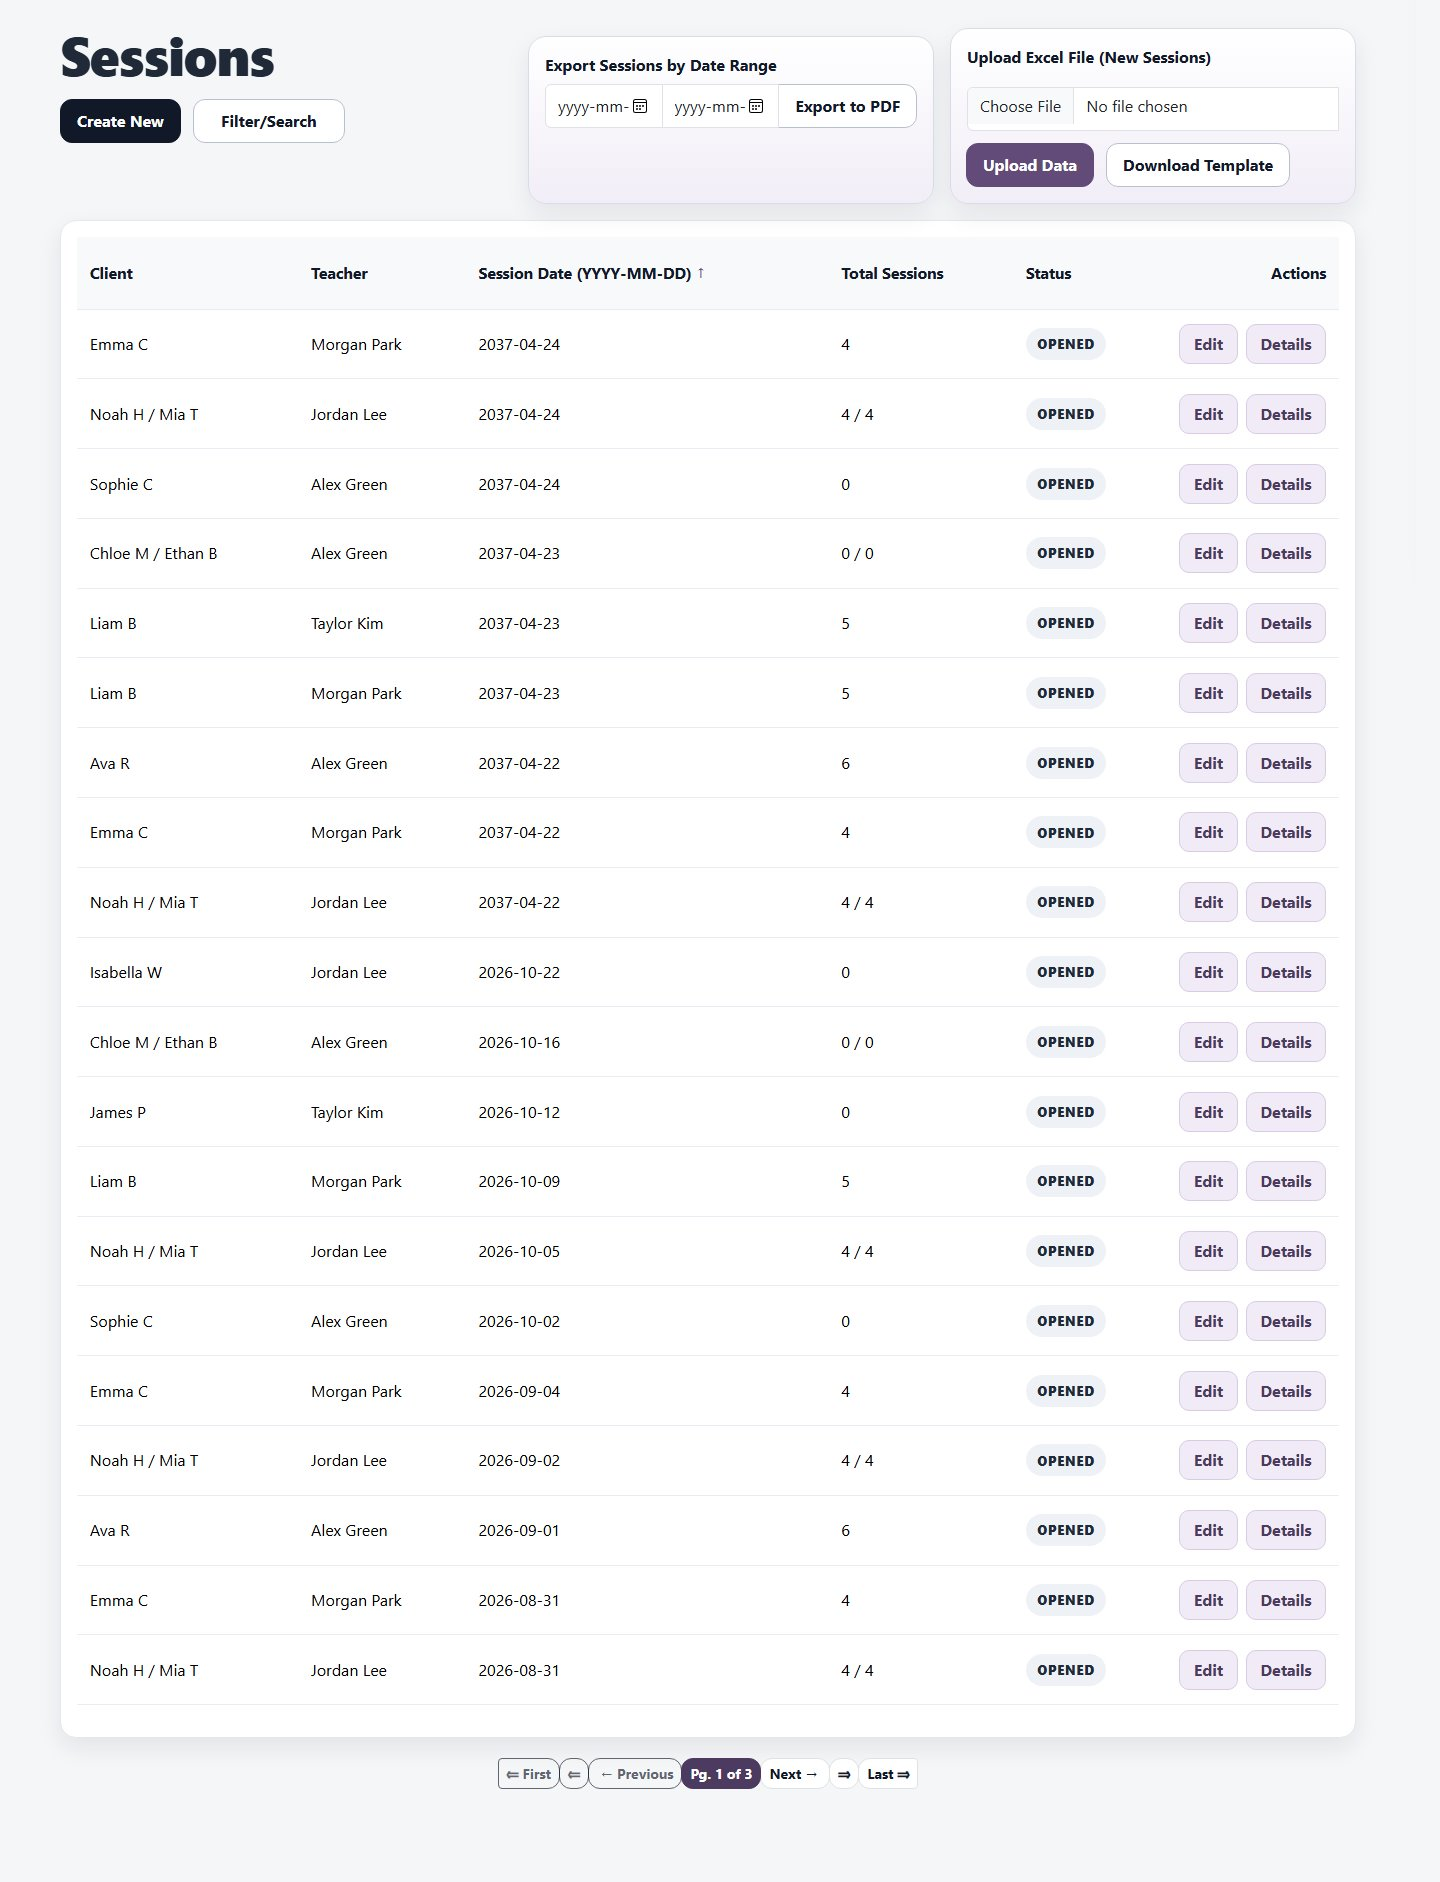
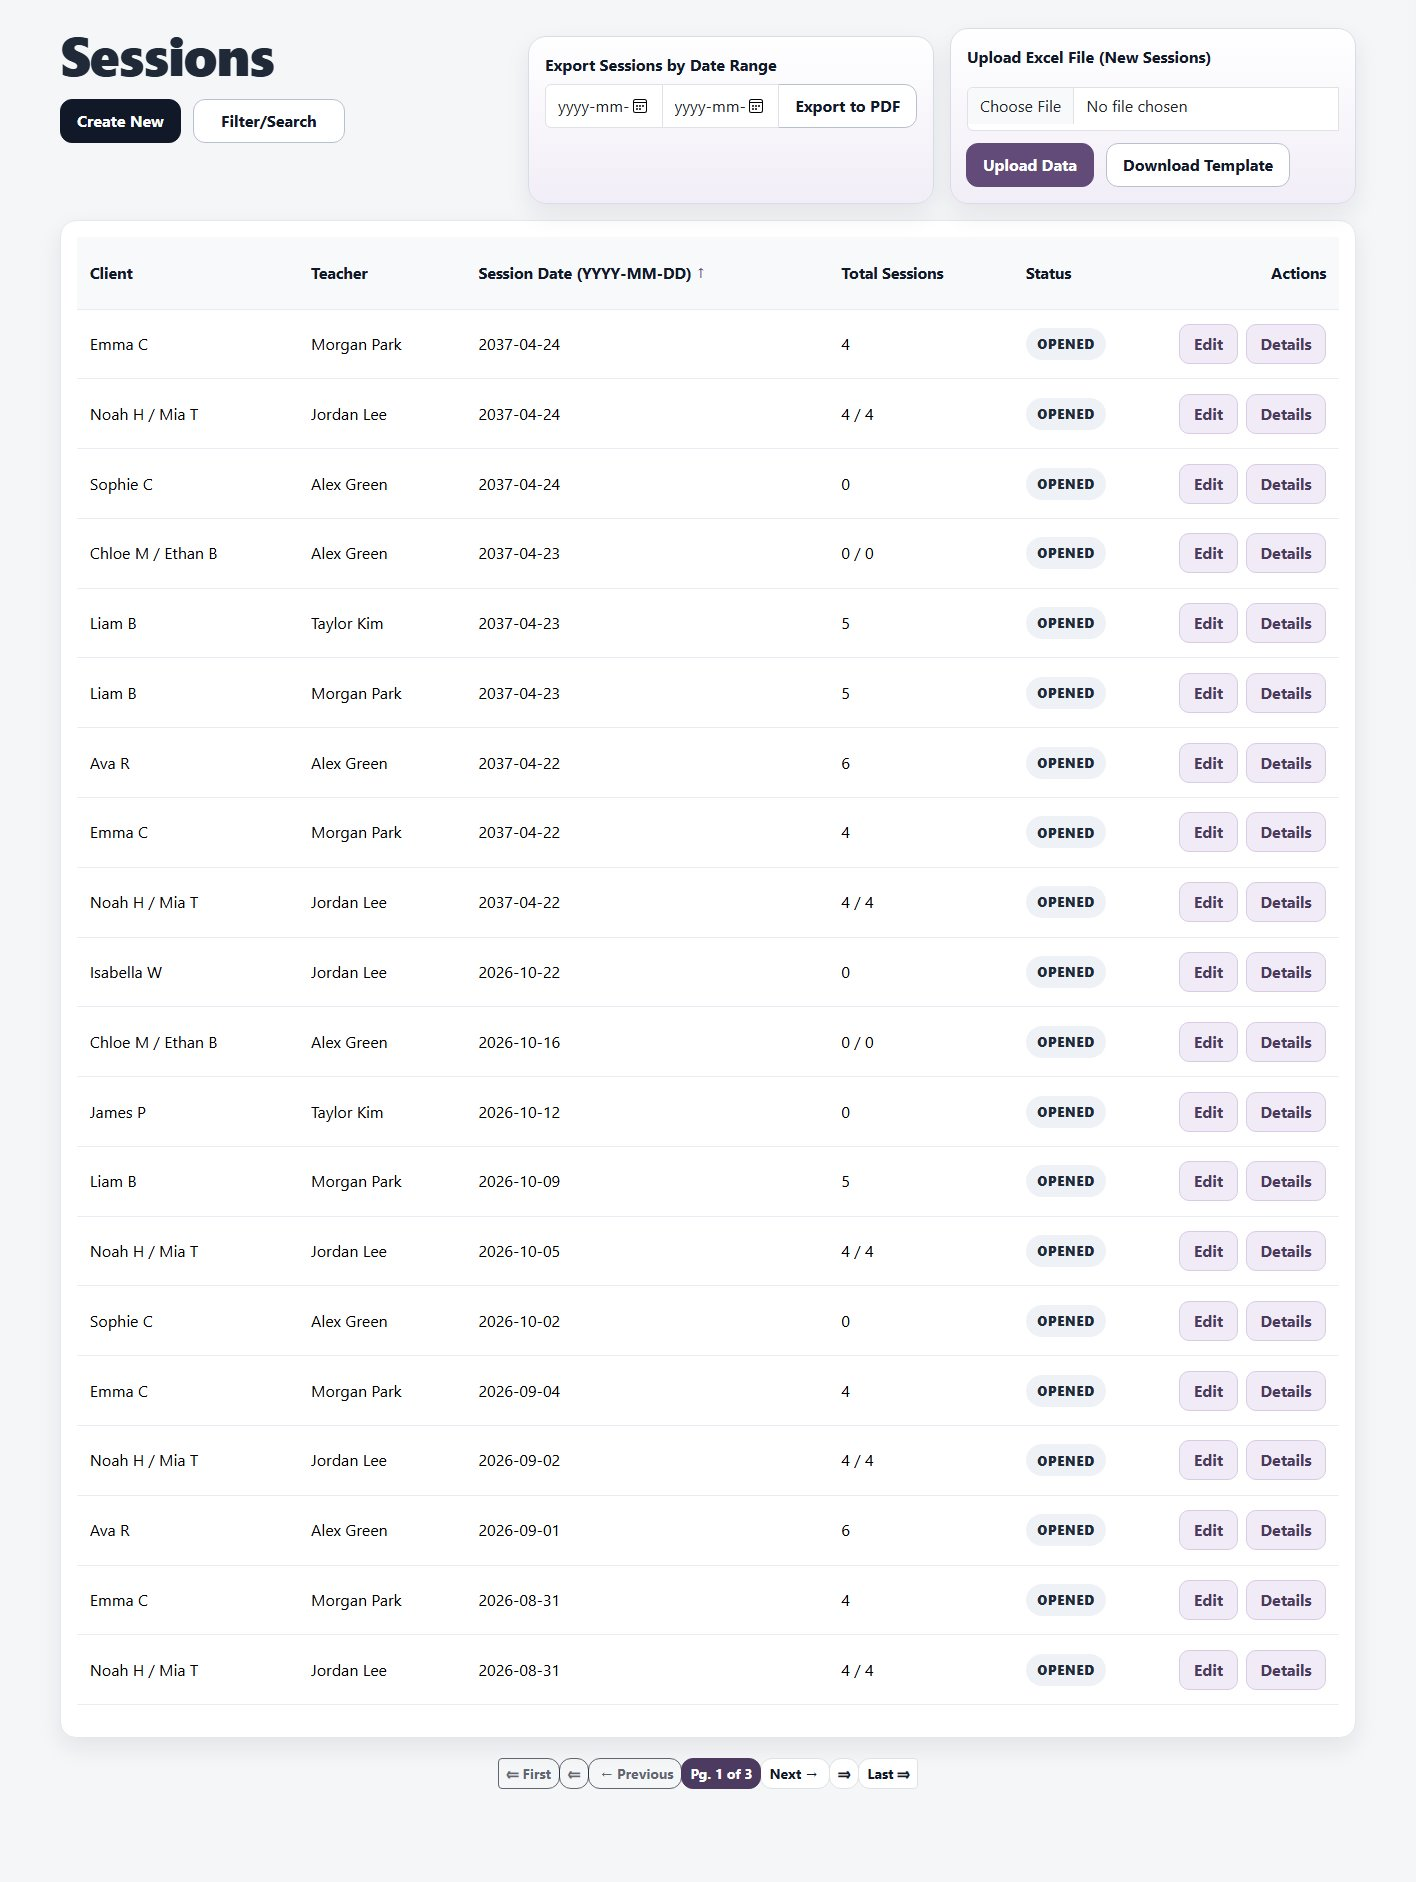
Trim the scrollbar gutter, and start a preview below its own header
Two things wrong with the previews at rest.

The Movement Unlimited capture kept a 24px strip on the right where the browser
had reserved the scrollbar, so the purple navigation stopped short of the edge
and the whole frame read as cropped wrong. The captures are re-sliced at 1416
wide, which is where the page content actually ends: the bar now runs to the
edge. Nothing is lost, the rightmost content on all three pages sits at 1360.
Click targets are re-derived against the narrower strip, since only the
denominator moved.

The pinned header and the page underneath it were both absolutely positioned at
top zero, so the page began behind the header and the first slice of it was
never visible. A page shorter than its frame then left the dark device
background showing underneath, which is the black box: the dashboard covered
161px of a 188px screen. Both now sit in normal flow, so the page starts below
the header exactly as it does on the real page, and transforming the page still
leaves the header where it is. That closes the gap from 27px to 2.

A frame can now declare the background of the page it shows, so where a short
page does leave a sliver it ends in that page's own colour instead of black.

diff --git a/portfolio.html b/portfolio.html
@@ -175,20 +175,20 @@
       <article class="project project-alt reveal">
         <div class="project-media">
           <button type="button" class="zoom" aria-label="View larger: Movement Unlimited">
-            <span class="device device-browser" data-reel>
+            <span class="device device-browser" data-reel style="--screen-bg:#F5F6F8">
               <span class="device-bar" aria-hidden="true"><i></i><i></i><i></i><b>Movement Unlimited</b></span>
               <span class="device-screen">
-                <span class="reel-slide is-live" data-click="34.4,50">
-                  <img class="reel-head" src="assets/work/head-mu-dashboard.jpg" alt="" loading="lazy" width="1440" height="101">
-                  <img class="reel-page" src="assets/work/reel-mu-dashboard.jpg" alt="Movement Unlimited dashboard showing upcoming sessions." loading="lazy" width="1440" height="707">
+                <span class="reel-slide is-live" data-click="35.0,50">
+                  <img class="reel-head" src="assets/work/head-mu-dashboard.jpg" alt="" loading="lazy" width="1416" height="101">
+                  <img class="reel-page" src="assets/work/reel-mu-dashboard.jpg" alt="Movement Unlimited dashboard showing upcoming sessions." loading="lazy" width="1416" height="707">
                 </span>
-                <span class="reel-slide" data-click="43.3,50">
-                  <img class="reel-head" src="assets/work/head-mu-sessions.jpg" alt="" loading="lazy" width="1440" height="101">
-                  <img class="reel-page" src="assets/work/reel-mu-sessions.jpg" alt="Sessions list with export and bulk upload." loading="lazy" width="1440" height="1882">
+                <span class="reel-slide" data-click="44.0,50">
+                  <img class="reel-head" src="assets/work/head-mu-sessions.jpg" alt="" loading="lazy" width="1416" height="101">
+                  <img class="reel-page" src="assets/work/reel-mu-sessions.jpg" alt="Sessions list with export and bulk upload." loading="lazy" width="1416" height="1882">
                 </span>
-                <span class="reel-slide" data-click="16.6,50">
-                  <img class="reel-head" src="assets/work/head-mu-reports.jpg" alt="" loading="lazy" width="1440" height="101">
-                  <img class="reel-page" src="assets/work/reel-mu-reports.jpg" alt="Reports screen with session statistics over a date range." loading="lazy" width="1440" height="1171">
+                <span class="reel-slide" data-click="16.9,50">
+                  <img class="reel-head" src="assets/work/head-mu-reports.jpg" alt="" loading="lazy" width="1416" height="101">
+                  <img class="reel-page" src="assets/work/reel-mu-reports.jpg" alt="Reports screen with session statistics over a date range." loading="lazy" width="1416" height="1171">
                 </span>
               </span>
               <span class="reel-cursor" aria-hidden="true"></span>

diff --git a/index.html b/index.html
@@ -138,20 +138,20 @@
         </a>
         <a class="teaser" href="portfolio.html#web-app">
           <span class="teaser-shot">
-            <span class="device device-browser" data-reel>
+            <span class="device device-browser" data-reel style="--screen-bg:#F5F6F8">
               <span class="device-bar" aria-hidden="true"><i></i><i></i><i></i><b>Movement Unlimited</b></span>
               <span class="device-screen">
-                <span class="reel-slide is-live" data-click="34.4,50">
-                  <img class="reel-head" src="assets/work/head-mu-dashboard.jpg" alt="" loading="lazy" width="1440" height="101">
-                  <img class="reel-page" src="assets/work/reel-mu-dashboard.jpg" alt="Movement Unlimited dashboard." loading="lazy" width="1440" height="707">
+                <span class="reel-slide is-live" data-click="35.0,50">
+                  <img class="reel-head" src="assets/work/head-mu-dashboard.jpg" alt="" loading="lazy" width="1416" height="101">
+                  <img class="reel-page" src="assets/work/reel-mu-dashboard.jpg" alt="Movement Unlimited dashboard." loading="lazy" width="1416" height="707">
                 </span>
-                <span class="reel-slide" data-click="43.3,50">
-                  <img class="reel-head" src="assets/work/head-mu-sessions.jpg" alt="" loading="lazy" width="1440" height="101">
-                  <img class="reel-page" src="assets/work/reel-mu-sessions.jpg" alt="" loading="lazy" width="1440" height="1882">
+                <span class="reel-slide" data-click="44.0,50">
+                  <img class="reel-head" src="assets/work/head-mu-sessions.jpg" alt="" loading="lazy" width="1416" height="101">
+                  <img class="reel-page" src="assets/work/reel-mu-sessions.jpg" alt="" loading="lazy" width="1416" height="1882">
                 </span>
-                <span class="reel-slide" data-click="16.6,50">
-                  <img class="reel-head" src="assets/work/head-mu-reports.jpg" alt="" loading="lazy" width="1440" height="101">
-                  <img class="reel-page" src="assets/work/reel-mu-reports.jpg" alt="" loading="lazy" width="1440" height="1171">
+                <span class="reel-slide" data-click="16.9,50">
+                  <img class="reel-head" src="assets/work/head-mu-reports.jpg" alt="" loading="lazy" width="1416" height="101">
+                  <img class="reel-page" src="assets/work/reel-mu-reports.jpg" alt="" loading="lazy" width="1416" height="1171">
                 </span>
               </span>
               <span class="reel-cursor" aria-hidden="true"></span>

diff --git a/styles.css b/styles.css
@@ -833,7 +833,10 @@ html { scrollbar-color: #2C3D34 var(--ground); scrollbar-width: thin; }
 
 .device-screen {
   position: absolute; inset: var(--bar, 0) 0 0; overflow: hidden;
-  background: var(--ground);
+  /* Falls back to the site ground. A frame showing a light application sets
+     its own, so a page shorter than the frame ends in the colour that page
+     actually has, rather than a black band. */
+  background: var(--screen-bg, var(--ground));
 }
 /* Slides stack in the same box and cross fade. Inside one, the header is
    pinned the way a real sticky header is and the page scrolls under it. */
@@ -842,14 +845,20 @@ html { scrollbar-color: #2C3D34 var(--ground); scrollbar-width: thin; }
   opacity: 0; transition: opacity 0.5s var(--ease);
 }
 .reel-slide.is-live { opacity: 1; }
+/* Both sit in normal flow, so the page starts below the header exactly as it
+   does on the real page. Absolutely positioning them both put the top of the
+   page behind the header, which only looked right once it had scrolled.
+   Transforming the page does not move the header, so the header stays put and
+   the page slides under it. */
 .reel-head {
-  position: absolute; inset: 0 0 auto; z-index: 2;
+  position: relative; z-index: 2;
   width: 100%; height: auto; display: block;
 }
 /* Height is auto so a tall capture keeps its own aspect and overflows
    downward, which is exactly the overflow the script scrolls through. */
 .reel-page {
-  position: absolute; inset: 0 0 auto; width: 100%; height: auto; display: block;
+  position: relative; z-index: 1;
+  width: 100%; height: auto; display: block;
 }
 .reel-slide.is-live .reel-page { will-change: transform; }
 
